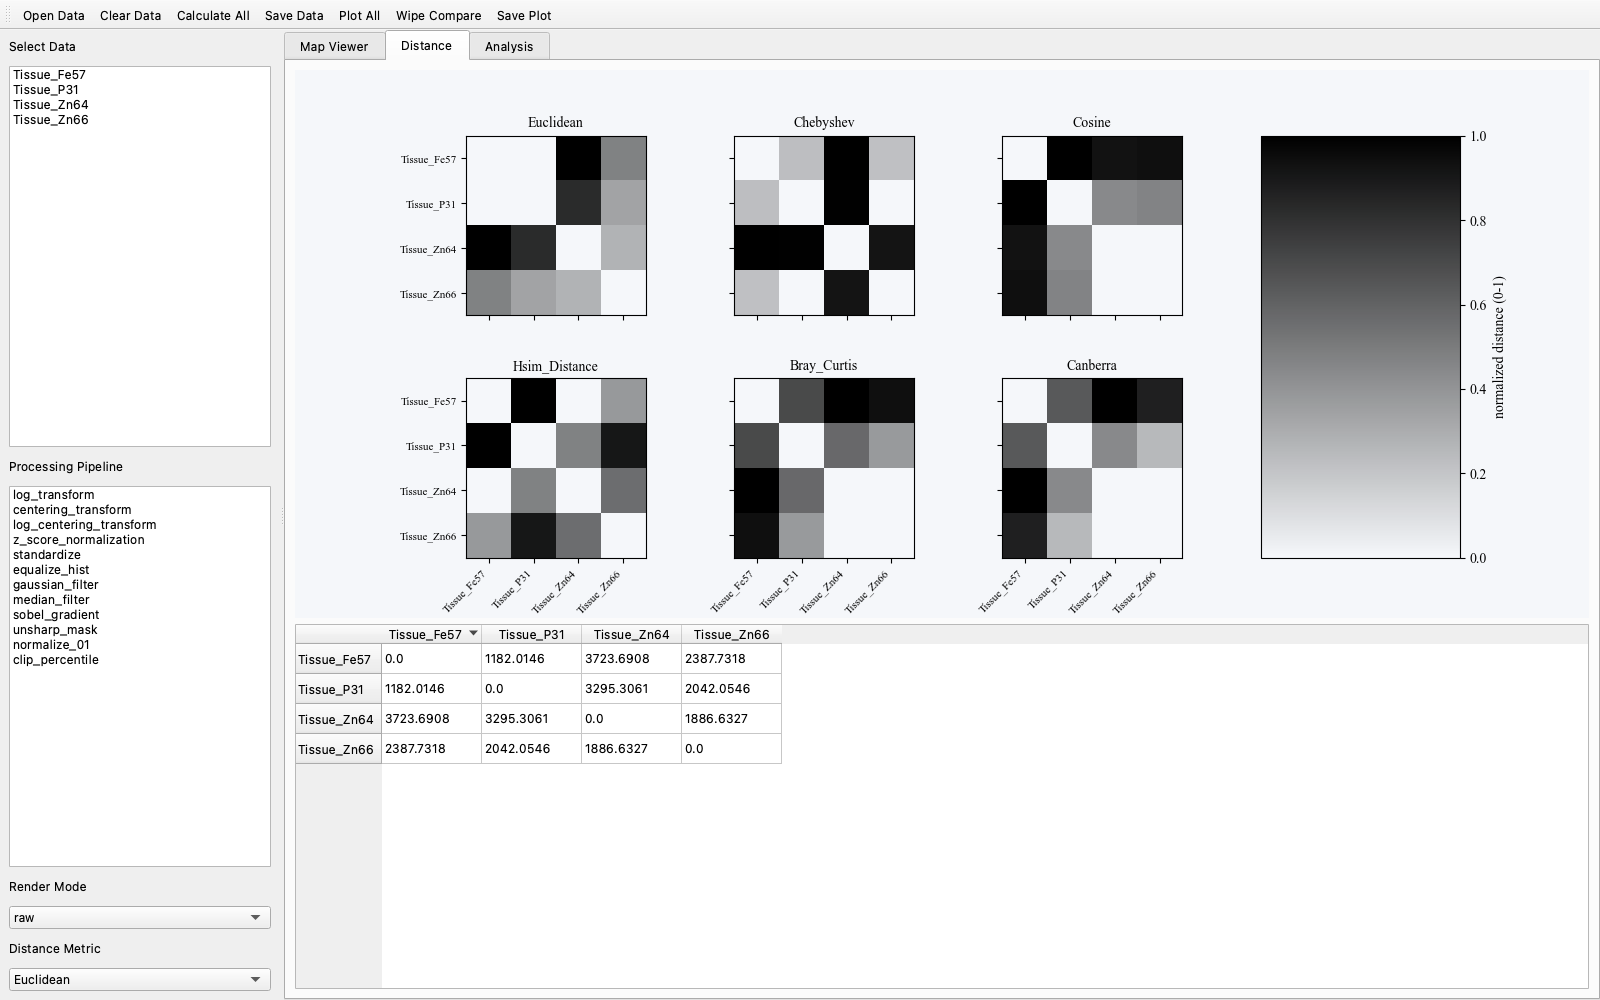
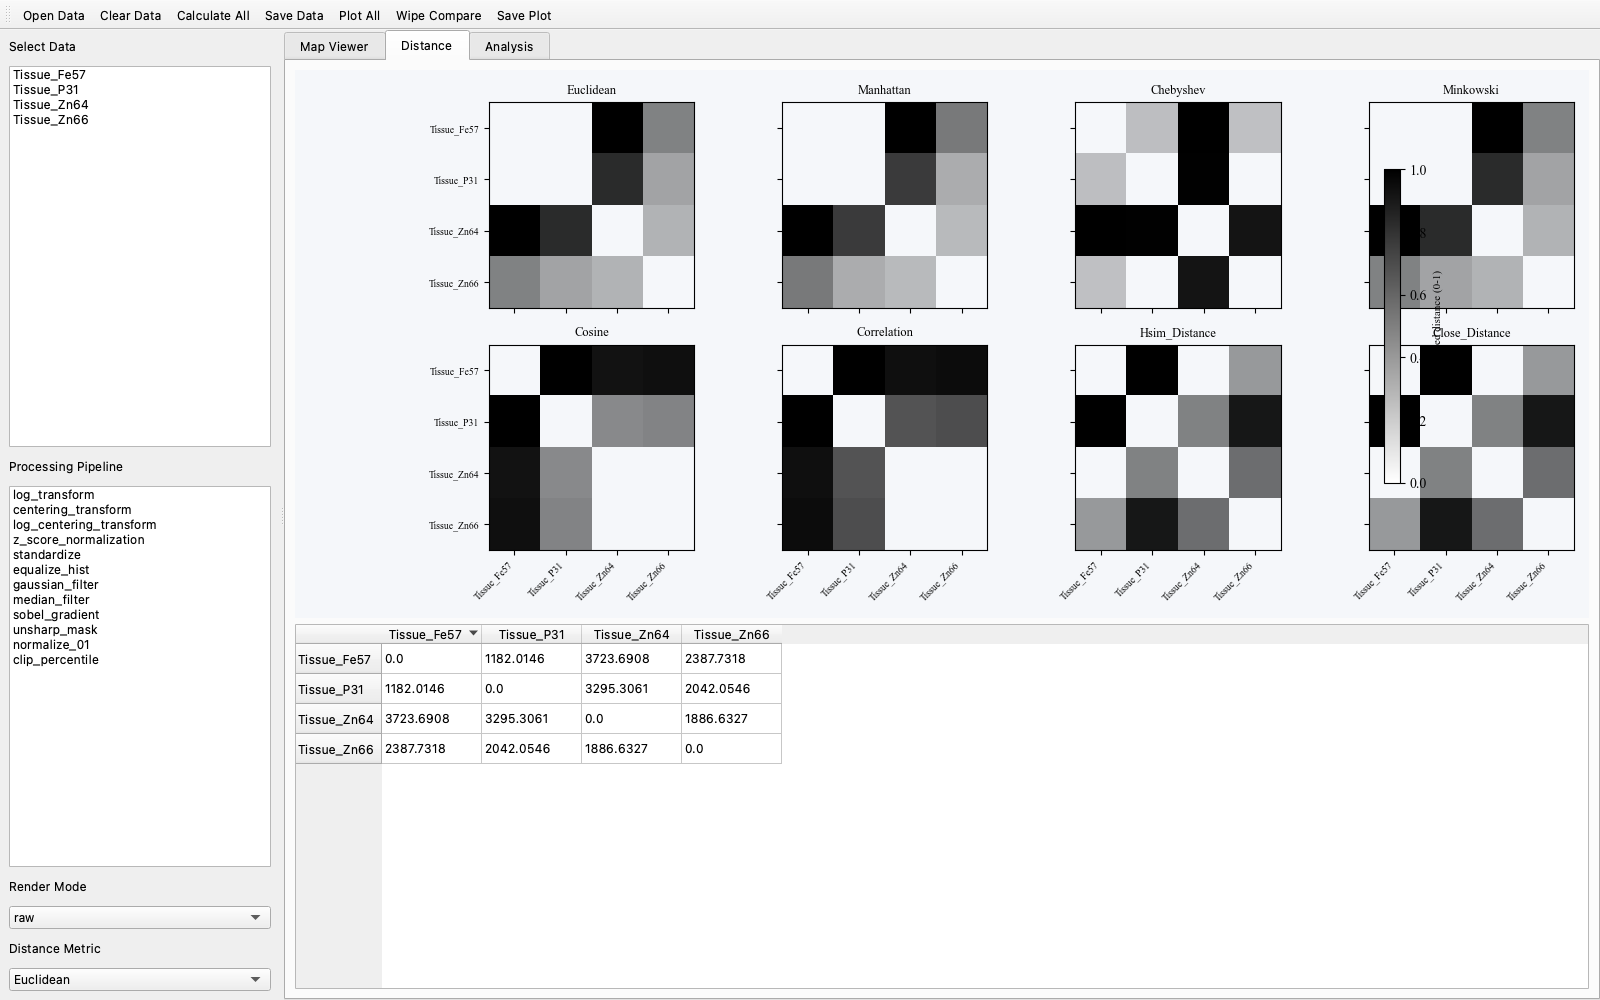
v1.2.4: distance grid 2x4 with 8 metrics, colorbar outside grid
- Added Manhattan, Minkowski, Correlation, Close_Distance (total 8)
- 2x4 grid fully filled with heatmaps, colorbar outside on far right
- Even distribution across the canvas

Changed region(s): [[0.25, 0.062, 1.0, 0.62]]

diff --git a/cpsvisualizer/src/cpsvisualizer/app.py b/cpsvisualizer/src/cpsvisualizer/app.py
@@ -702,13 +702,14 @@ class CPSVisualizer(QMainWindow):
         self._table.setModel(PandasModel(self.result_df_dict[name].round(4)))
         self._plot_distance_grid()
 
-    DIST_GRID = ['Euclidean', 'Chebyshev', 'Cosine',
-                 'Hsim_Distance', 'Bray_Curtis', 'Canberra']
+    DIST_GRID = ['Euclidean', 'Manhattan', 'Chebyshev', 'Minkowski',
+                 'Cosine', 'Correlation', 'Hsim_Distance', 'Close_Distance',
+                 'Bray_Curtis', 'Canberra']
 
     def _plot_distance_grid(self):
-        """Render the six representative distance metrics as a 2x4 grid of
-        0-1 normalized heatmaps on the Distance tab.  The eighth cell holds
-        a shared colorbar so the six heatmaps keep an even layout."""
+        """Render the representative distance metrics as a 2x4 grid of
+        0-1 normalized heatmaps on the Distance tab, with a shared colorbar
+        on the far right."""
         fig = self._dist_canvas.figure
         fig.clear()
         fig.patch.set_facecolor(FIG_BG)
@@ -721,12 +722,9 @@ class CPSVisualizer(QMainWindow):
             return
         names = self.df_name_list
         n = len(names)
-        metrics = [m for m in self.DIST_GRID if m in self._dist_funcs]
+        all_metrics = [m for m in self.DIST_GRID if m in self._dist_funcs]
         nrows, ncols = 2, 4
-        # use a GridSpec: 6 heatmap cells + 1 dedicated colorbar cell
-        from matplotlib.gridspec import GridSpec
-        gs = GridSpec(nrows, ncols, figure=fig,
-                      width_ratios=[1, 1, 1, 1], wspace=0.35, hspace=0.35)
+        metrics = all_metrics[:nrows * ncols]
         images = []
         for pos, mname in enumerate(metrics):
             if mname not in self.result_df_dict:
@@ -740,35 +738,33 @@ class CPSVisualizer(QMainWindow):
                 if hi - lo > 1e-12:
                     vals = (vals - lo) / (hi - lo)
                     np.fill_diagonal(vals, 0.0)
-            row, col = pos // 3, pos % 3
-            ax = fig.add_subplot(gs[row, col])
+            ax = fig.add_subplot(nrows, ncols, pos + 1)
             ax.set_facecolor(FIG_BG)
             im = ax.imshow(vals, cmap=ink_colormap(), vmin=0.0, vmax=1.0,
                            aspect='equal')
             images.append(im)
-            ax.set_title(mname, fontsize=10)
+            ax.set_title(mname, fontsize=9)
             ax.set_xticks(range(n))
             ax.set_yticks(range(n))
+            col = pos % ncols
+            row = pos // ncols
             if row == nrows - 1:
-                ax.set_xticklabels(names, rotation=45, ha='right', fontsize=8)
+                ax.set_xticklabels(names, rotation=45, ha='right', fontsize=7)
             else:
                 ax.set_xticklabels([])
             if col == 0:
-                ax.set_yticklabels(names, fontsize=8)
+                ax.set_yticklabels(names, fontsize=7)
             else:
                 ax.set_yticklabels([])
-        # dedicated colorbar in the last column, spanning both rows
-        cax = fig.add_subplot(gs[:, 3])
-        cax.set_facecolor(FIG_BG)
+        # shared colorbar at far right, outside the subplot grid
         if images:
             import matplotlib as _mpl
             norm = _mpl.colors.Normalize(vmin=0.0, vmax=1.0)
             sm = _mpl.cm.ScalarMappable(cmap=ink_colormap(), norm=norm)
             sm.set_array([])
-            cbar = fig.colorbar(sm, cax=cax, shrink=0.9)
-            cbar.set_label('normalized distance (0-1)')
-        else:
-            cax.axis('off')
+            cbar = fig.colorbar(sm, ax=fig.get_axes(),
+                                shrink=0.7, pad=0.02)
+            cbar.set_label('normalized distance (0-1)', fontsize=8)
         fig.tight_layout()
         self._dist_canvas.draw()
 

diff --git a/cpsvisualizer/src/setup.py b/cpsvisualizer/src/setup.py
@@ -15,7 +15,7 @@ except Exception:
 
 setup(
     name='cpsvisualizer',
-    version='1.2.3',
+    version='1.2.4',
     description='CPS-Visualizer: Visualization, similarity measurement, and statistical analysis of LA-ICP-MS surface scan data.',
     long_description=README,
     long_description_content_type='text/markdown',
